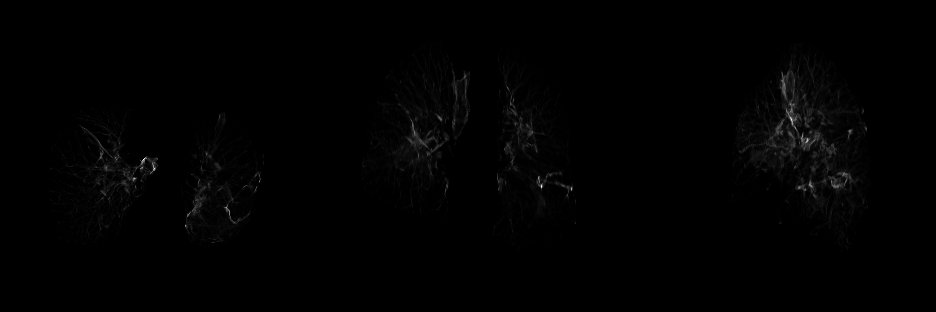
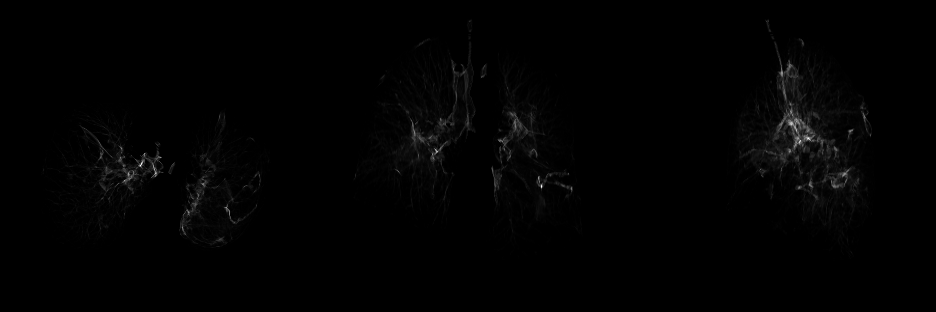
wip

diff --git a/oldschool.py b/oldschool.py
@@ -1,3 +1,5 @@
+
+import imageio
 import numpy as np
 from scipy import ndimage
 from skimage import measure
@@ -123,6 +125,33 @@ def vessel_seg(img_obj):
     return vessel_obj
 
 
+def fissure_seg(img_obj):
+
+    # lungseg
+    lung_obj = lung_seg(img_obj,kind='erode5')
+    
+    img = sitk.GetArrayFromImage(img_obj).clip(-1000,1000).astype(np.float)
+    lung = sitk.GetArrayFromImage(lung_obj)
+    # mask non-lung
+    masked_img = img
+    masked_img[lung==0] = -1000
+
+    masked_obj = sitk.GetImageFromArray(masked_img)
+    masked_obj.SetSpacing(img_obj.GetSpacing())
+    masked_obj.SetOrigin(img_obj.GetOrigin())
+    masked_obj.SetDirection(img_obj.GetDirection())
+
+    myfilter = sitk.ObjectnessMeasureImageFilter()
+    myfilter.SetBrightObject(True)
+    myfilter.SetObjectDimension(2) # 2: planes (plate-like structures)
+    # nope nope nope
+    myfilter.SetAlpha(0.5) 
+    myfilter.SetBeta(0.5)
+    myfilter.SetGamma(1000.0)
+    fissure_obj = myfilter.Execute(masked_obj)
+    return fissure_obj
+
+
 def get_point_seeded_field(img,seed):
     # reference https://github.com/pangyuteng/simple-centerline-extraction
     sx,sy,sz = seed
@@ -160,19 +189,24 @@ def airway_seg(img_obj):
     print('seed',seed)
     ss_field = get_point_seeded_field(lung_mask,seed).astype(np.int)
     ss_field[lung_mask==0]=-1
-    import imageio
-    for x in sorted(np.unique(ss_field)):
+    '''
+    for n,x in enumerate(sorted(np.unique(ss_field))):
+        if x < 0:
+            continue
         threshold = x
         ss_mean = np.mean(img[ss_field==x])
+        print(x,ss_mean,np.sum(ss_field==x))
         # intensity increases going from trachea to lung
-        if ss_mean > -950: # TODO: hard coded param - not great but justified.
-            break
-        '''
+        #if ss_mean > -950: # TODO: hard coded param - not great but justified.
+        #    break
+        if n > 200:
+            break    
         vimg = np.sum(ss_field==x,axis=1).squeeze()
         vimg = (255*(vimg-np.min(vimg))/(np.max(vimg)-np.min(vimg))).clip(0,255).astype(np.uint8)
         imageio.imwrite(f'{x}.png',vimg)
         print(ss_mean,threshold)
-        '''
+    '''
+    threshold = 75
     airway = np.logical_and(ss_field>=0,ss_field<threshold)
     airway = airway.astype(np.uint8)
 
@@ -181,29 +215,3 @@ def airway_seg(img_obj):
     airway_obj.SetOrigin(origin)
     airway_obj.SetDirection(direction)
     return airway_obj
-
-def fissure_seg(img_obj):
-
-    # lungseg
-    lung_obj = lung_seg(img_obj,kind='erode5')
-    
-    img = sitk.GetArrayFromImage(img_obj).clip(-1000,1000).astype(np.float)
-    lung = sitk.GetArrayFromImage(lung_obj)
-    # mask non-lung
-    masked_img = img
-    masked_img[lung==0] = -1000
-
-    masked_obj = sitk.GetImageFromArray(masked_img)
-    masked_obj.SetSpacing(img_obj.GetSpacing())
-    masked_obj.SetOrigin(img_obj.GetOrigin())
-    masked_obj.SetDirection(img_obj.GetDirection())
-
-    myfilter = sitk.ObjectnessMeasureImageFilter()
-    myfilter.SetBrightObject(True)
-    myfilter.SetObjectDimension(2) # 2: planes (plate-like structures)
-    # nope nope nope
-    myfilter.SetAlpha(0.5) 
-    myfilter.SetBeta(0.5)
-    myfilter.SetGamma(1000.0)
-    fissure_obj = myfilter.Execute(masked_obj)
-    return fissure_obj
